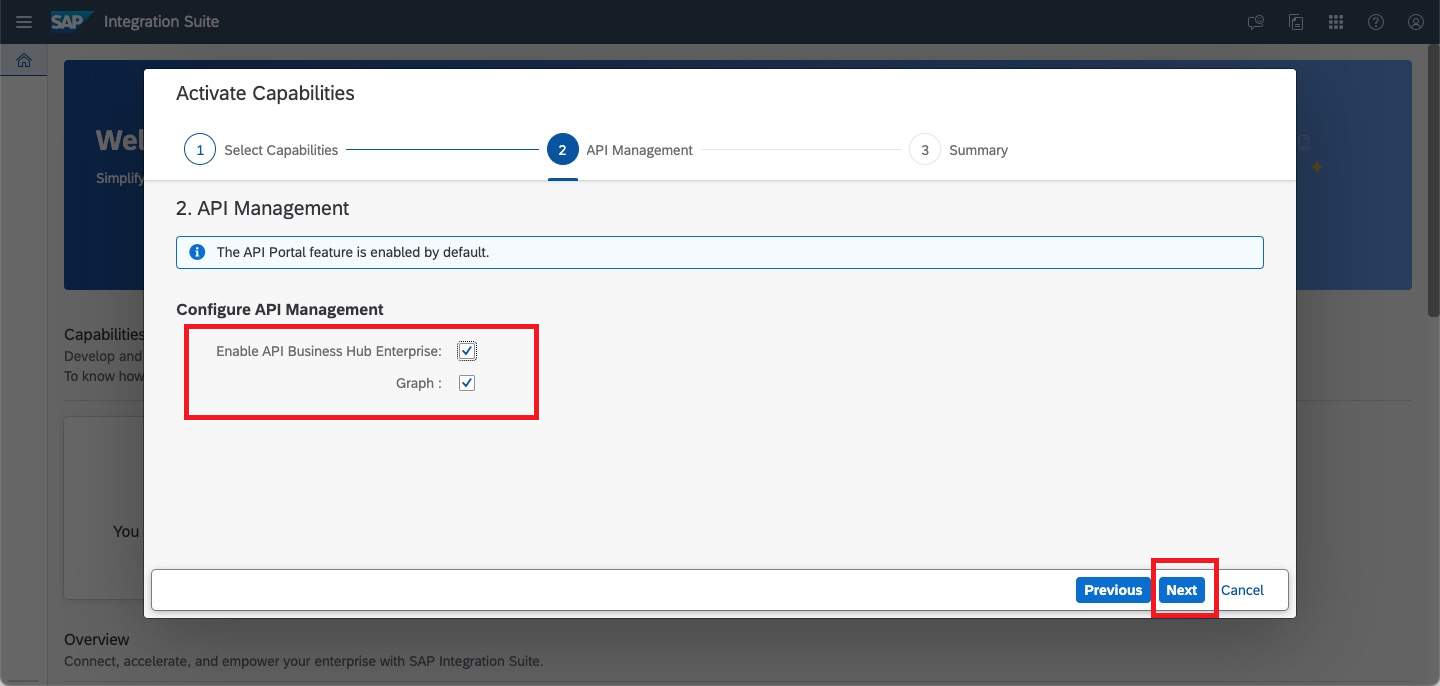
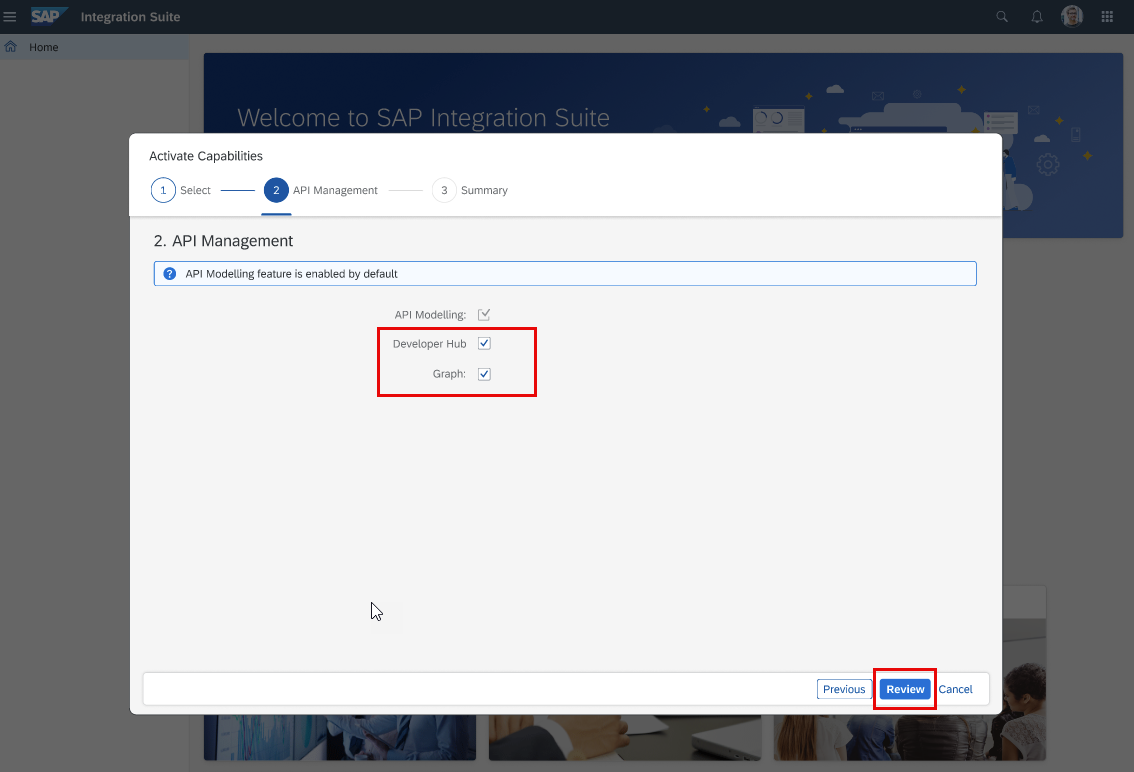
Updated screenshot

Changed region(s): [[0.0, 0.0, 1.0, 1.0], [0.6481, 0.2143, 0.7099, 0.2449], [0.9877, 0.9796, 1.0, 1.0]]

diff --git a/btp-adai/tutorials/api-mgmt-isuite-initial-setup/api-mgmt-isuite-initial-setup.md b/btp-adai/tutorials/api-mgmt-isuite-initial-setup/api-mgmt-isuite-initial-setup.md
@@ -18,7 +18,7 @@ primary_tag: software-product>sap-api-management
   - Access API Management features and resources available on Integration Suite.
 
 ## Intro
-To set up the API Management capability from Integration Suite, you should first have an Integration Suite subscription. 
+To set up the API Management capability from Integration Suite, you should first have an Integration Suite subscription.
 
 >**IMPORTANT** Ensure that you don't have an instance of starter plan created in the same subaccount, where you plan to create an Integration Suite subscription. Also, note that API Management capabilities from Integration Suite and API Management subscriptions using the standalone tile cannot coexist in the same subaccount.
 
@@ -79,22 +79,23 @@ To set up the API Management capability from Integration Suite, you should first
 2. To design, develop, publish, and oversee APIs in a secure and scalable environment, choose **Manage APIs** and choose **Next** on the **Activate Capabilities** dialog.
    <!-- border -->![Add API Management Capability](design-develop-manage.png)
 
-3. To discover, consume and monitor APIs from a centralized API catalogue, select the checkbox **Enable API Business Hub Enterprise**. 
-   Once you enable API business hub enterprise, you will get an option to enable **Graph**.
+3. To discover, consume and monitor APIs from a centralized API catalogue, select the checkbox **Developer Hub**. 
+   Once you enable Developer Hub, you will get an option to enable **Graph**.
+   <!-- border -->![Activate Developer Hub](activate-devhub-graph.png)
 
 4. If you want to expose all your business data in the form of a single semantically connected data graph, select the checkbox for **Graph**, and choose **Next**.
-   <!-- border -->![Activate API Business Hub Enterprise](activate-abhe-graph.png)
+   <!-- border -->![Activate Developer Hub](activate-abhe-graph.png)
 
 5. Choose **Activate** on the **Activate Capabilities** dialog.
-   <!-- border -->![API Portal and API Business Hub Enterprise is Active ](activate-apim.png)
+   <!-- border -->![API Portal and Developer Hub is Active ](activate-apim.png)
 
 6. On the resulting screen, choose **OK** once the status changes from **In Progress** to **Active**.
-   <!-- border -->![API Portal and API Business Hub Enterprise is Active ](Isuite-activated_apim-graph.png)
+   <!-- border -->![API Portal and Developer Hub is Active ](Isuite-activated_apim-graph.png)
 
 7. Go to the **SAP BTP Cockpit**, choose **Security** > **Users** and select the user to whom you want to assign the role. Under **Role Collections** section, choose **Assign Role Collection**. In the resulting dialog box, choose the following roles and choose **Assign Role Collection**:
 
    - **APIManagement.Selfservice.Administrator** - This role is required to configure API Management service in Integration Suite. 
-   - **AuthGroup.SelfService.Admin** - This role is required during the onboarding of API business hub enterprise and to get access to it.
+   - **AuthGroup.SelfService.Admin** - This role is required during the onboarding of Developer Hub and to get access to it.
    - **Graph.KeyUser** - This role is required to create and activate business data graphs for a landscape.
    - **GraphNavigator.Viewer** - This role is required to explore business data graphs in **Graph Navigator**.
    
@@ -106,10 +107,10 @@ To set up the API Management capability from Integration Suite, you should first
 
    
 
-1. On the **Integration Suite** home page, choose **Settings** > **APIs** from the left navigation pane.
+1. On the **Integration Suite** home page, choose **Settings** > **Runtimes** from the left navigation pane.
    <!-- border -->![Setting Up API Management Service](settings-api.png)
 
-2. On the **Configure the API Management Service** page, configure the following and choose **Set Up**:
+2. On the **Configure the API Management Service** page, configure the following and choose **Activate**:
 
     - Select the Account type:
 
